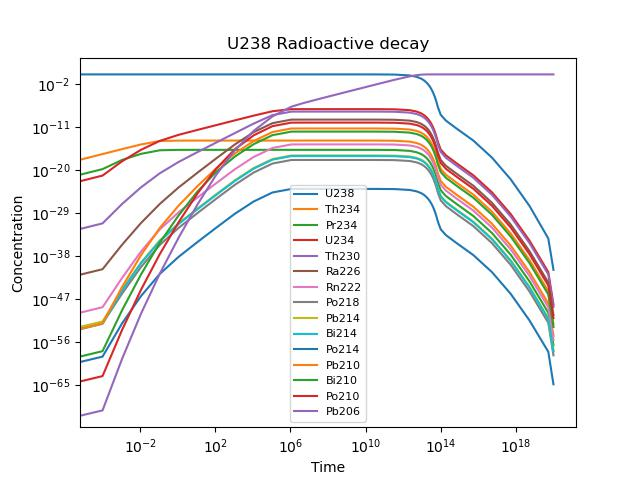
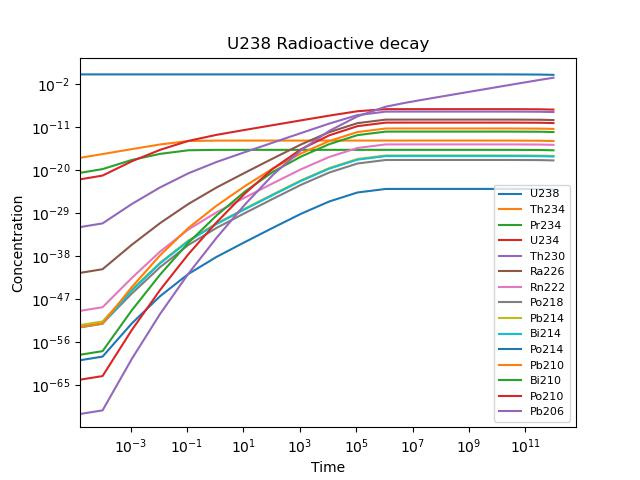
almost finished need to wrap up the last part ofq3

diff --git a/Assignment 3/a3q2.py b/Assignment 3/a3q2.py
@@ -2,6 +2,10 @@ import numpy as np
 from scipy import integrate
 from matplotlib import pyplot as plt
 
+
+# PART 1) Simulate the decay of U238
+
+# Setting up our ode
 def fun(x, y, half_life = [1, 0.1]):
     # This is for decay of U238
     dydx = np.zeros(len(half_life) + 1)
@@ -10,6 +14,8 @@ def fun(x, y, half_life = [1, 0.1]):
     dydx[2] = y[1]/half_life[1]
     return dydx
 
+
+# units for conversion to seconds
 hours = 3.6e3
 bil_years = 3.15e19
 day = 8.64e4
@@ -56,12 +62,15 @@ def fun(
         138376 * day        # Po210
     ]
     ):
+
+
     # This is for decay of U238
 
-    half_life = np.array(half_life)/year
+    half_life = np.array(half_life)/year # In the end I ended up switching to years
     dydx = np.zeros(len(half_life) + 1) # Initializing the array for the derivatives
 
-    dydx[0] = -y[0]/half_life[0]        # Setting up the first one
+
+    dydx[0] = -y[0]/half_life[0]        # Setting up the first transition
 
     for i in range(1, len(dydx) - 1):   # Going through a loop to create the vector
         dydx[i] = y[i-1]/half_life[i-1] - y[i]/half_life[i]
@@ -70,15 +79,18 @@ def fun(
 
     return dydx
 
+
+
+# Init simulation
 y0 = np.insert(np.zeros(len(comp_name)-1), 0, 1)
 x0 = 0
-x1 = 1e20
+x1 = 1e12
 
-ans_rk4 = integrate.solve_ivp(fun, [x0, x1], y0, method = 'Radau')
+sol = integrate.solve_ivp(fun, [x0, x1], y0, method = 'Radau')
 
 
-for y_dat, name in zip(ans_rk4.y, comp_name):
-    plt.loglog(ans_rk4.t, y_dat, label = name)
+for y_dat, name in zip(sol.y, comp_name):
+    plt.loglog(sol.t, y_dat, label = name)
     
 plt.title("U238 Radioactive decay")
 plt.legend(prop={'size': 8})
@@ -88,7 +100,11 @@ plt.savefig("figs/a3q2_decay_plot.jpg")
 plt.show()
 
 
-plt.loglog(ans_rk4.t, ans_rk4.y[-1]/ans_rk4.y[0], label = "Ratio of Pb206/U238")
+
+
+# PART 2) Plotting the ratio of two elements
+
+plt.loglog(sol.t, sol.y[-1]/sol.y[0], label = "Ratio of Pb206/U238")
 
 plt.title("Pb206/U238 ratio")
 plt.legend()
@@ -98,7 +114,7 @@ plt.savefig("figs/a3q2_decay_ratio_plot.jpg")
 plt.show()
 
 
-# Defining the analytic estimation for the ratio of the two elements
+# Defining the analytic estimation for the ratio of U238 and Pb206
 def rat_Pb_U(t):
     U_hl = 4.468*bil_years/year
     return np.exp(t/U_hl) - 1
@@ -106,7 +122,7 @@ def rat_Pb_U(t):
 v = np.linspace(x0, x1, 1000)
 ana_y = rat_Pb_U(v)
 
-plt.loglog(ans_rk4.t, ans_rk4.y[-1]/ans_rk4.y[0], label = "Numerical")
+plt.loglog(sol.t, sol.y[-1]/sol.y[0], label = "Numerical")
 plt.loglog(v, ana_y, label = "Analytic")
 
 plt.title("Pb206/U238 ratio")
@@ -115,3 +131,35 @@ plt.xlabel("Time")
 plt.ylabel("Concentration")
 plt.savefig("figs/a3q2_analytic_comp.jpg")
 plt.show()
+
+
+# PART 3) Plotting the ratio of U238 and Th230
+
+plt.loglog(sol.t, sol.y[4]/sol.y[3], label = "Ratio of Th230/U238")
+
+plt.title("Th230/U238 ratio")
+plt.legend()
+plt.xlabel("Time")
+plt.ylabel("Concentration")
+plt.savefig("figs/a3q2_decay_ratio_plot2.jpg")
+plt.show()
+
+'''
+# Defining the analytic estimation for the ratio of the two elements
+def rat_Pb_U(t):
+    U_hl = 4.468*bil_years/year
+    return np.exp(t/U_hl) - 1
+
+v = np.linspace(x0, x1, 1000)
+ana_y = rat_Pb_U(v)
+
+plt.loglog(sol.t, sol.y[-1]/sol.y[0], label = "Numerical")
+plt.loglog(v, ana_y, label = "Analytic")
+
+plt.title("Pb206/U238 ratio")
+plt.legend()
+plt.xlabel("Time")
+plt.ylabel("Concentration")
+plt.savefig("figs/a3q2_analytic_comp.jpg")
+plt.show()
+'''

diff --git a/Assignment 3/a3q3.py b/Assignment 3/a3q3.py
@@ -16,7 +16,7 @@ ax.scatter(dat[0], dat[1], dat[2])
 ax.set_xlabel('X-axis')
 ax.set_ylabel('Y-axis')
 ax.set_zlabel('Z-axis')
-#plt.show()
+plt.show()
 
 # Our x, y, z data
 xs = dat[0]
@@ -82,7 +82,7 @@ ax.set_xlabel('x')
 ax.set_ylabel('y')
 ax.set_zlabel('z')
 plt.savefig('figs/a3q3_paraboloid_data.jpg')
-#plt.show()
+plt.show()
 
 print("Our best fit parameters are:", fitp)
 
@@ -105,6 +105,12 @@ original_fit = coord_trans(fitp)
 
 noise  = np.std(np.array([paraboloid(j[0], j[1], fitp) for j in xy_vec]) - zs)
 
-print("The noise is:", noise)
+noise2  = np.std(np.array([paraboloid(j[0], j[1], fitp) for j in xy_vec]) - zs)
 
-print("focal length is:", 1/original_fit[0]/4)
+print("The noise is:", noise)
+print("New noise is:", noise2)
+
+a_err = (3500 + noise)/3500**2 - original_fit[0]
+print("The estimated error on a is", a_err)
+
+print("focal length is:", 1/original_fit[0]/4, '\pm', 4/original_fit[0]**2*a_err)

diff --git a/Assignment 3/Assignment_3.md b/Assignment 3/Assignment_3.md
@@ -73,7 +73,7 @@ Since the half-life of U238 is quite long, $\approx 4\ \text{billion years}$, we
 
 ![a3q2_decay_ratio_plot](figs/a3q2_decay_ratio_plot.jpg)
 
-We can analytically estimate how this curve should look like. Assuming that the transition from U238 to Pb206 is mainly determined by the half-life of U238 to the next element (which is legitimate since it is a lot bigger in magnitude than the other half-lives), we can write up:
+We can analytically estimate what this curve should be. Assuming that the transition from U238 to Pb206 is mainly determined by the half-life of U238 to the next element (which is legitimate since it is a lot bigger in magnitude than the other half-lives), we can write up:
 
 $$
 \begin{cases}
@@ -95,7 +95,17 @@ Consequently the ratio of the two compounds as a function of time is simply
 
 $$ R(t) = e^{t/C_{\text{U238}}} - 1$$
 
+We now plot the ratios obtained numerically and analytically:
+
 ![a3q2_decay_ratio_plot](figs/a3q2_analytic_comp.jpg)
+
+We see that the numerical one is lower than the anylitic one iniitially. This makes sense since the decays haven't "had the time to reach" the Pb206. It does match the curve much better later on.
+
+We can now also plot the ratio of Th230 to U234:
+
+![a3q2_decay_ratio_plot](figs/a3q2_decay_ratio_plot2.jpg)
+
+We see that the ratio approaches an equilibrium point.
 
 ## Question 3
 
@@ -170,3 +180,31 @@ But these are the transformed parameters to make the model linear. In the old co
     y_0 = 5.82214761e+01 
     z_0 = -1.51287721e+03
 ```
+
+### Part c)
+
+To estimate the noise let's look at the impact that the standard deviation has on `a`, if this deviation happens at the edge of the parabola. In other words, we want to find $\Delta a$ for which:
+
+$$ (a + \Delta a)x_0^2 = x_0 + \Delta x$$
+
+We get
+
+$$ \Delta a = \frac{x_0 + \Delta x}{x_0^2}-a$$
+
+Numerically, this is: 0.0001.
+
+We can propagate this using a truncated taylor series (or derivative):
+
+$$\sigma_f = \frac{df}{da}\sigma_a$$
+
+and since we know that
+
+$$ f(a) = \frac{4}{a}$$
+
+We have
+
+$$\sigma_f = \frac{4}{a}\sigma_a$$
+
+$$f = 1499.659984125219 \pm 20000$$
+
+This does not make sense... Way too big errors. However, the focal length is really close to the expect value by less than 1 mm.
